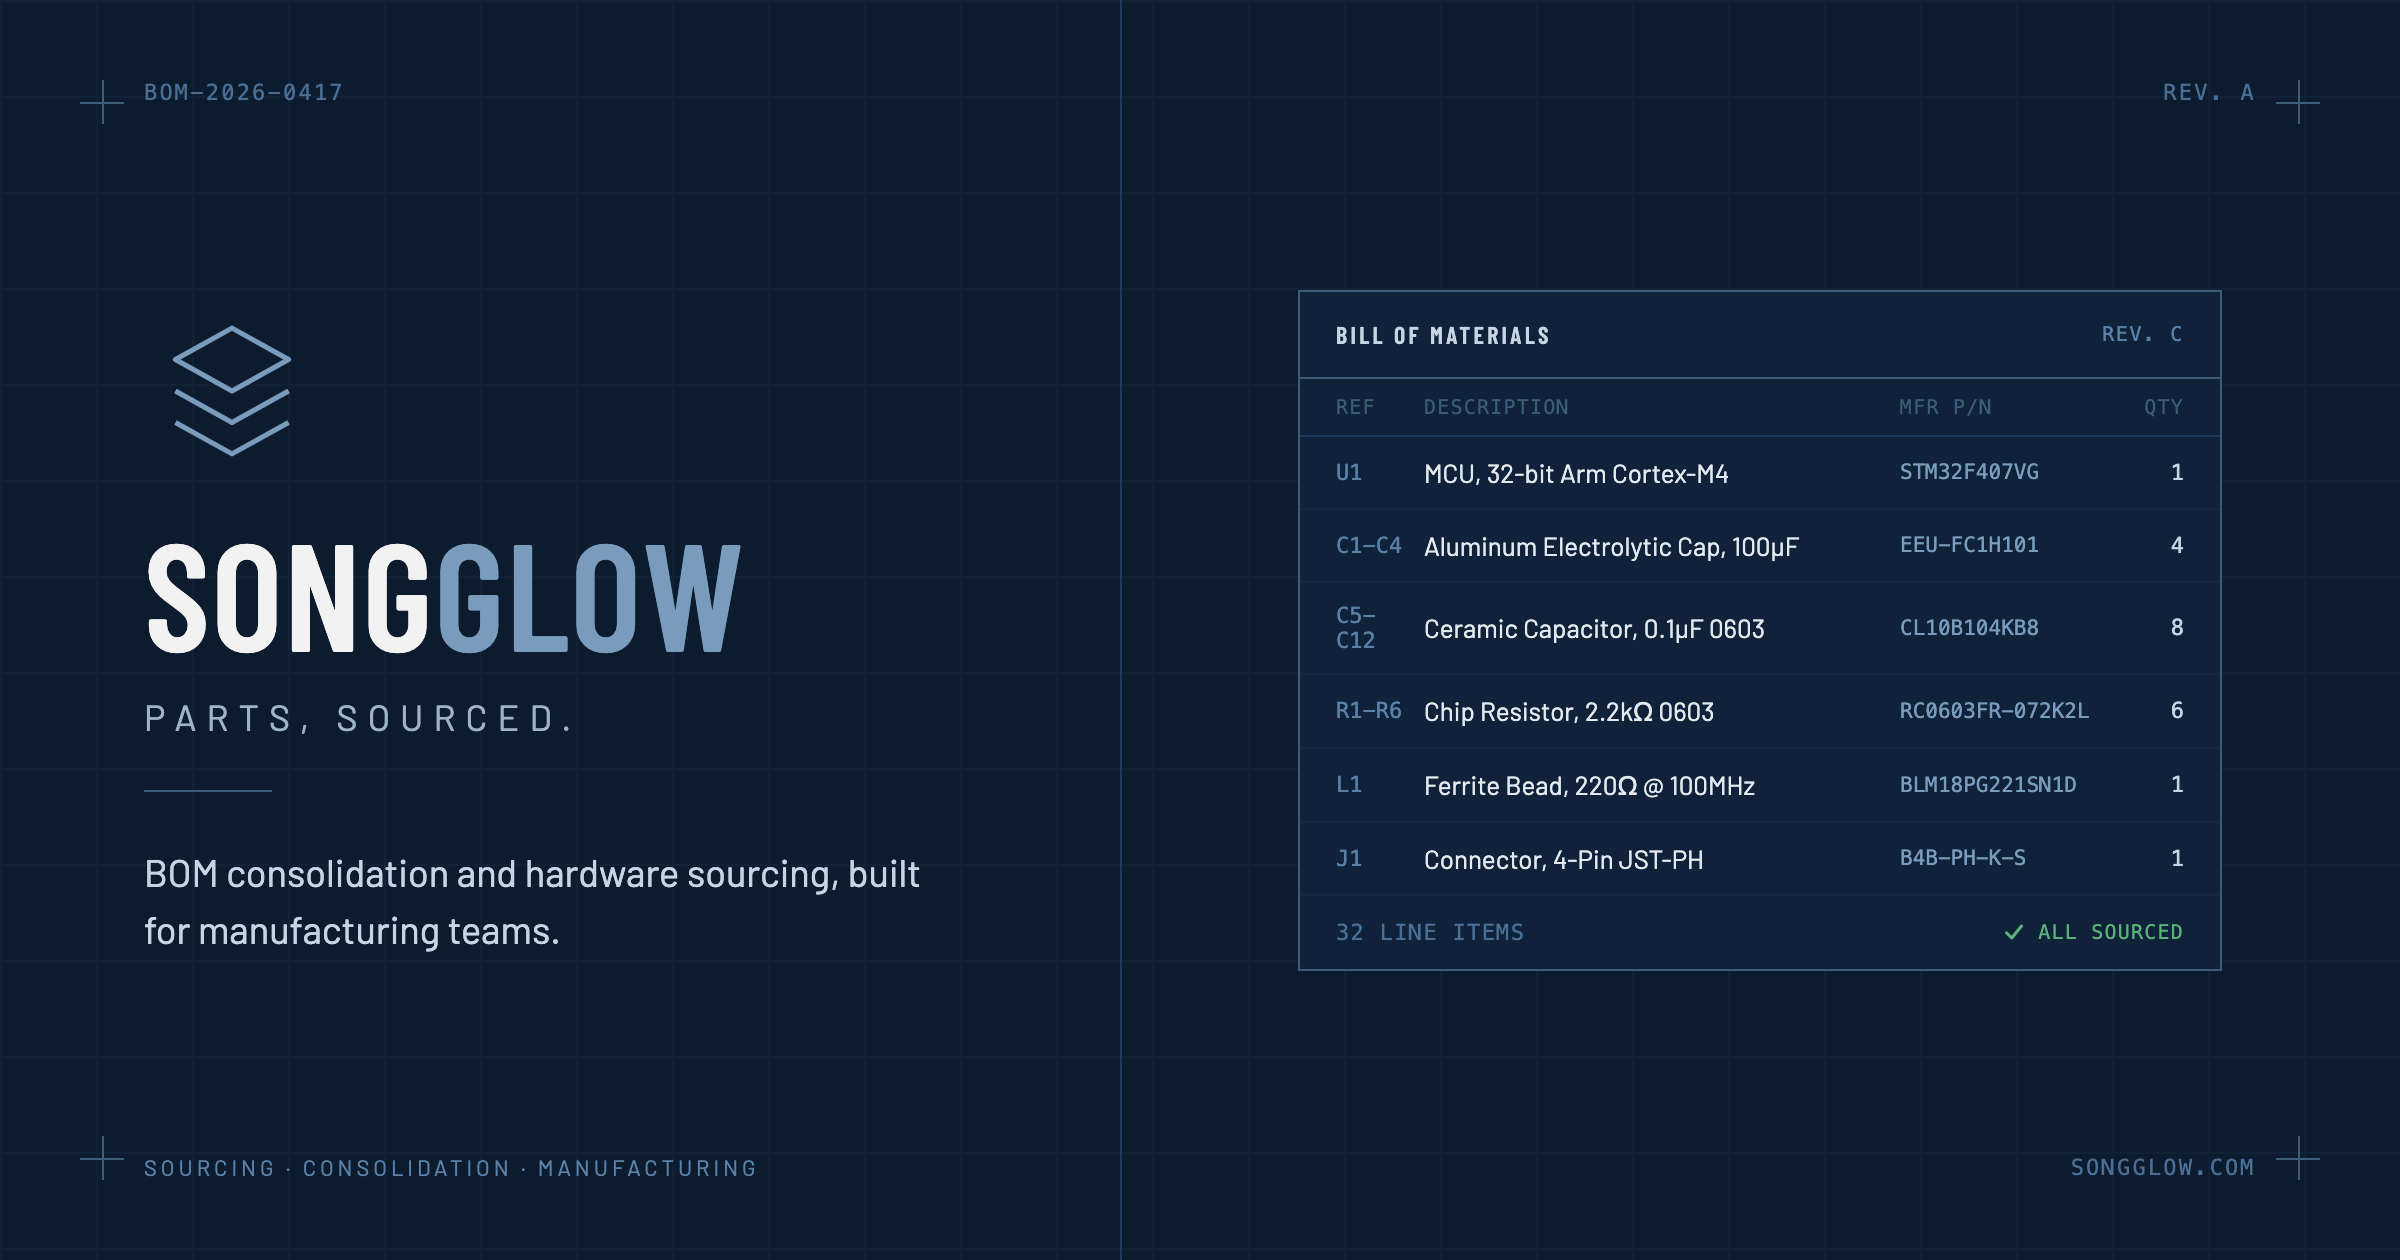
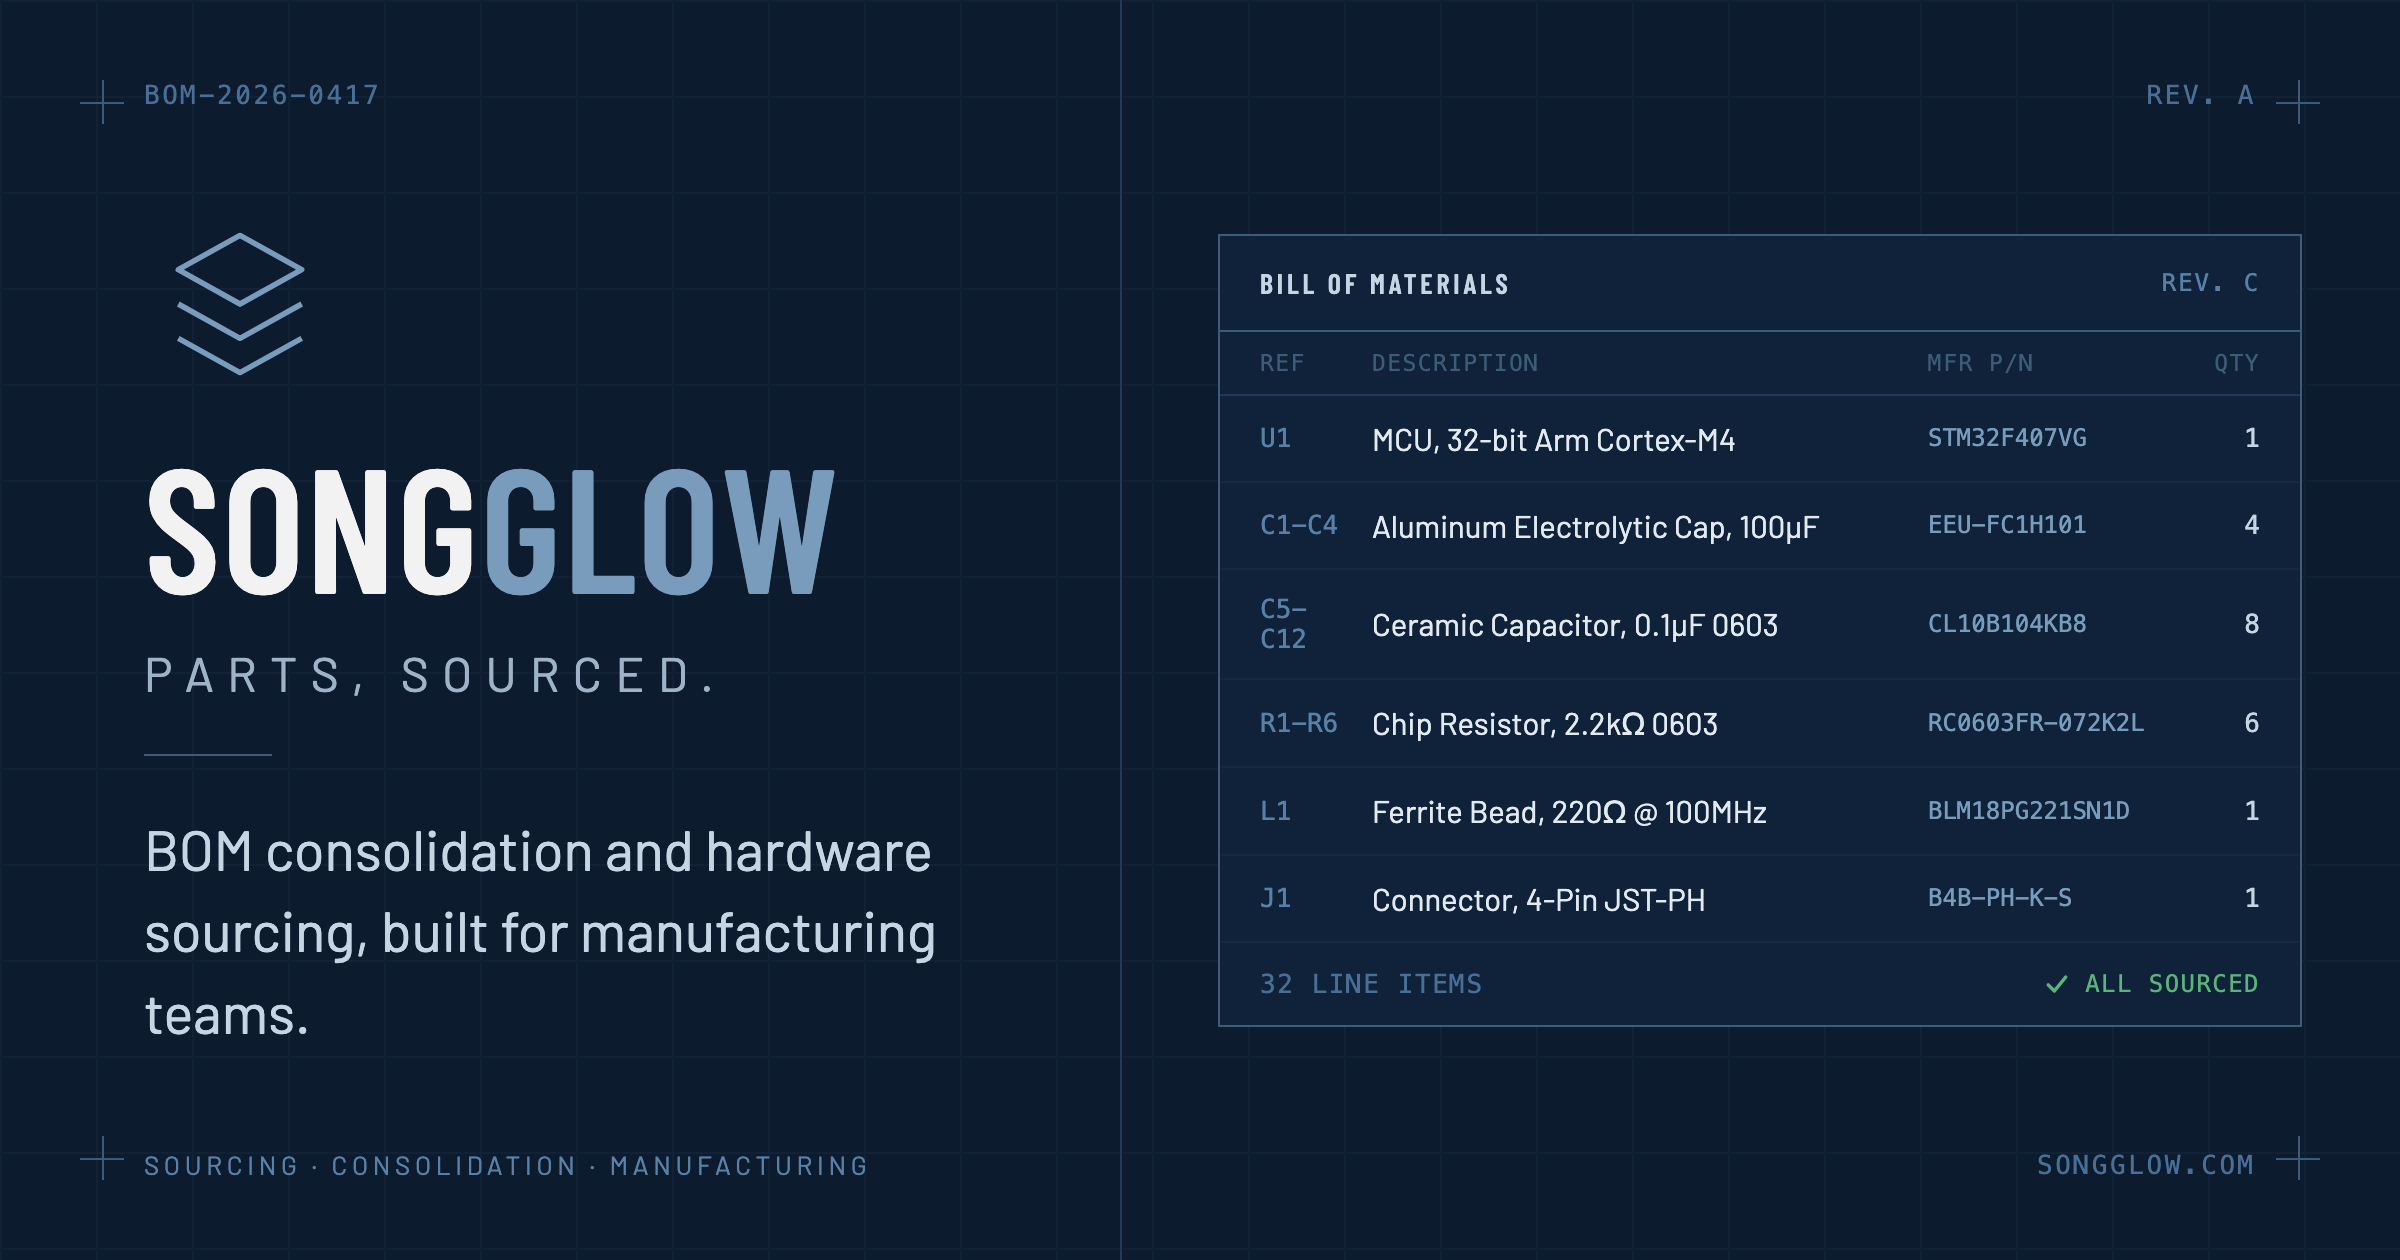
OG image (BOM card)

diff --git a/scripts/build_og_image.py b/scripts/build_og_image.py
@@ -88,11 +88,11 @@ def build_html(css):
     rows = ""
     for ref, name, mpn, qty in BOM:
         rows += (
-            '<div style="display:flex;align-items:center;gap:10px;padding:10px 18px;border-bottom:1px solid #16283f">'
-            f'<div style="width:34px;font:400 11px ui-monospace,Menlo,monospace;color:#5980a6">{ref}</div>'
-            f'<div style="flex:1;min-width:0;font-size:13px;color:#e2e9ef;overflow:hidden;text-overflow:ellipsis;white-space:nowrap">{name}</div>'
-            f'<div style="width:96px;font:400 10.5px ui-monospace,Menlo,monospace;color:#7a9cbc;overflow:hidden;text-overflow:ellipsis;white-space:nowrap">{mpn}</div>'
-            f'<div style="width:36px;text-align:right;font:400 11px ui-monospace,Menlo,monospace;color:#c5d5e3">{qty}</div>'
+            '<div style="display:flex;align-items:center;gap:12px;padding:12px 20px;border-bottom:1px solid #16283f">'
+            f'<div style="width:44px;font:400 13px ui-monospace,Menlo,monospace;color:#5980a6">{ref}</div>'
+            f'<div style="flex:1;min-width:0;font-size:15.5px;color:#e2e9ef;overflow:hidden;text-overflow:ellipsis;white-space:nowrap">{name}</div>'
+            f'<div style="width:112px;font:400 12px ui-monospace,Menlo,monospace;color:#7a9cbc;overflow:hidden;text-overflow:ellipsis;white-space:nowrap">{mpn}</div>'
+            f'<div style="width:42px;text-align:right;font:400 13px ui-monospace,Menlo,monospace;color:#c5d5e3">{qty}</div>'
             "</div>"
         )
     c = COPY
@@ -104,40 +104,40 @@ body{{margin:0;background:#0d1b2e}}
 <div style="position:absolute;inset:0;background-image:linear-gradient(#16283f 1px,transparent 1px),linear-gradient(90deg,#16283f 1px,transparent 1px);background-size:48px 48px;opacity:0.55"></div>
 <div style="position:absolute;left:0;top:0;width:560px;height:100%;border-right:1px solid #1f3a5c"></div>
 {corner('top:40px;left:40px')}{corner('top:40px;right:40px')}{corner('bottom:40px;left:40px')}{corner('bottom:40px;right:40px')}
-<div style="position:absolute;top:40px;left:72px;font:400 11px ui-monospace,Menlo,monospace;letter-spacing:.1em;color:#4a6f96">{c['badgeId']}</div>
-<div style="position:absolute;top:40px;right:72px;font:400 11px ui-monospace,Menlo,monospace;letter-spacing:.1em;color:#4a6f96;text-align:right">{c['badgeRev']}</div>
+<div style="position:absolute;top:40px;left:72px;font:400 13px ui-monospace,Menlo,monospace;letter-spacing:.1em;color:#4a6f96">{c['badgeId']}</div>
+<div style="position:absolute;top:40px;right:72px;font:400 13px ui-monospace,Menlo,monospace;letter-spacing:.1em;color:#4a6f96;text-align:right">{c['badgeRev']}</div>
 <div style="position:absolute;left:0;top:0;width:560px;height:100%;display:flex;flex-direction:column;justify-content:center;padding-left:72px">
-<svg width="88" height="88" viewBox="0 0 56 56" fill="none" style="margin-bottom:18px">
+<svg width="96" height="96" viewBox="0 0 56 56" fill="none" style="margin-bottom:18px">
 <path d="M28 8 L46 18 L28 28 L10 18 Z" stroke="#7a9cbc" stroke-width="1.6" stroke-linejoin="round"></path>
 <path d="M10 28 L28 38 L46 28" stroke="#7a9cbc" stroke-width="1.6" stroke-linejoin="round" fill="none"></path>
 <path d="M10 38 L28 48 L46 38" stroke="#7a9cbc" stroke-width="1.6" stroke-linejoin="round" fill="none"></path>
 </svg>
-<div style="font-family:'Barlow Condensed',sans-serif;font-weight:600;letter-spacing:.01em;font-size:76px;line-height:1;color:#f2f2f3">SONG<span style="color:#7a9cbc">GLOW</span></div>
-<div style="font-size:18px;letter-spacing:.28em;text-transform:uppercase;color:#9fb3c8;margin-top:14px">{c['tagline']}</div>
+<div style="font-family:'Barlow Condensed',sans-serif;font-weight:600;letter-spacing:.01em;font-size:88px;line-height:1;color:#f2f2f3">SONG<span style="color:#7a9cbc">GLOW</span></div>
+<div style="font-size:24px;letter-spacing:.28em;text-transform:uppercase;color:#9fb3c8;margin-top:16px">{c['tagline']}</div>
 <div style="width:64px;height:1px;background:#3d5c78;margin:26px 0"></div>
-<div style="font-size:19px;line-height:1.5;color:#c5d5e3;max-width:400px">{c['description']}</div>
+<div style="font-size:28px;line-height:1.45;color:#c5d5e3;max-width:430px">{c['description']}</div>
 </div>
 <div style="position:absolute;left:560px;top:0;width:640px;height:100%;display:flex;align-items:center;justify-content:center">
-<div style="width:460px;border:1px solid #3d5c78;background:#0f223a">
-<div style="display:flex;align-items:center;justify-content:space-between;padding:14px 18px;border-bottom:1px solid #3d5c78">
-<div style="font-family:'Barlow Condensed',sans-serif;font-weight:600;font-size:12px;letter-spacing:.14em;text-transform:uppercase;color:#c5d5e3">Bill of Materials</div>
-<div style="font:400 10px ui-monospace,Menlo,monospace;letter-spacing:.08em;color:#5980a6">REV. C</div>
+<div style="width:540px;border:1px solid #3d5c78;background:#0f223a">
+<div style="display:flex;align-items:center;justify-content:space-between;padding:15px 20px;border-bottom:1px solid #3d5c78">
+<div style="font-family:'Barlow Condensed',sans-serif;font-weight:600;font-size:14px;letter-spacing:.14em;text-transform:uppercase;color:#c5d5e3">Bill of Materials</div>
+<div style="font:400 12px ui-monospace,Menlo,monospace;letter-spacing:.08em;color:#5980a6">REV. C</div>
 </div>
-<div style="display:flex;align-items:center;gap:10px;padding:8px 18px;border-bottom:1px solid #1f3a5c;font:400 10px ui-monospace,Menlo,monospace;letter-spacing:.06em;color:#3d5c78">
-<div style="width:34px">REF</div><div style="flex:1">DESCRIPTION</div><div style="width:96px">MFR P/N</div><div style="width:36px;text-align:right">QTY</div>
+<div style="display:flex;align-items:center;gap:12px;padding:9px 20px;border-bottom:1px solid #1f3a5c;font:400 11.5px ui-monospace,Menlo,monospace;letter-spacing:.06em;color:#3d5c78">
+<div style="width:44px">REF</div><div style="flex:1">DESCRIPTION</div><div style="width:112px">MFR P/N</div><div style="width:42px;text-align:right">QTY</div>
 </div>
 {rows}
-<div style="display:flex;align-items:center;justify-content:space-between;padding:12px 18px">
-<div style="font:400 11px ui-monospace,Menlo,monospace;letter-spacing:.06em;color:#4a6f96">{c['catalogFooter']}</div>
-<div style="display:flex;align-items:center;gap:6px">
-<svg width="12" height="12" viewBox="0 0 16 16" fill="none"><path d="M3 8.5 L6.5 12 L13 4" stroke="#5cb37a" stroke-width="2" stroke-linecap="round" stroke-linejoin="round"></path></svg>
-<div style="font:400 10px ui-monospace,Menlo,monospace;letter-spacing:.06em;color:#5cb37a">ALL SOURCED</div>
+<div style="display:flex;align-items:center;justify-content:space-between;padding:13px 20px">
+<div style="font:400 13px ui-monospace,Menlo,monospace;letter-spacing:.06em;color:#4a6f96">{c['catalogFooter']}</div>
+<div style="display:flex;align-items:center;gap:7px">
+<svg width="14" height="14" viewBox="0 0 16 16" fill="none"><path d="M3 8.5 L6.5 12 L13 4" stroke="#5cb37a" stroke-width="2" stroke-linecap="round" stroke-linejoin="round"></path></svg>
+<div style="font:400 12px ui-monospace,Menlo,monospace;letter-spacing:.06em;color:#5cb37a">ALL SOURCED</div>
 </div></div>
 </div></div>
 <div style="position:absolute;left:560px;top:0;bottom:0;width:1px;background:#1f3a5c"></div>
 <div style="position:absolute;bottom:40px;left:72px;right:72px;display:flex;align-items:center;justify-content:space-between">
-<div style="font-size:11px;letter-spacing:.18em;text-transform:uppercase;color:#5980a6">{c['footerTag']}</div>
-<div style="font:400 11px ui-monospace,Menlo,monospace;color:#4a6f96;letter-spacing:.1em">{c['siteUrl']}</div>
+<div style="font-size:13px;letter-spacing:.18em;text-transform:uppercase;color:#5980a6">{c['footerTag']}</div>
+<div style="font:400 13px ui-monospace,Menlo,monospace;color:#4a6f96;letter-spacing:.1em">{c['siteUrl']}</div>
 </div>
 </div></body></html>"""
 